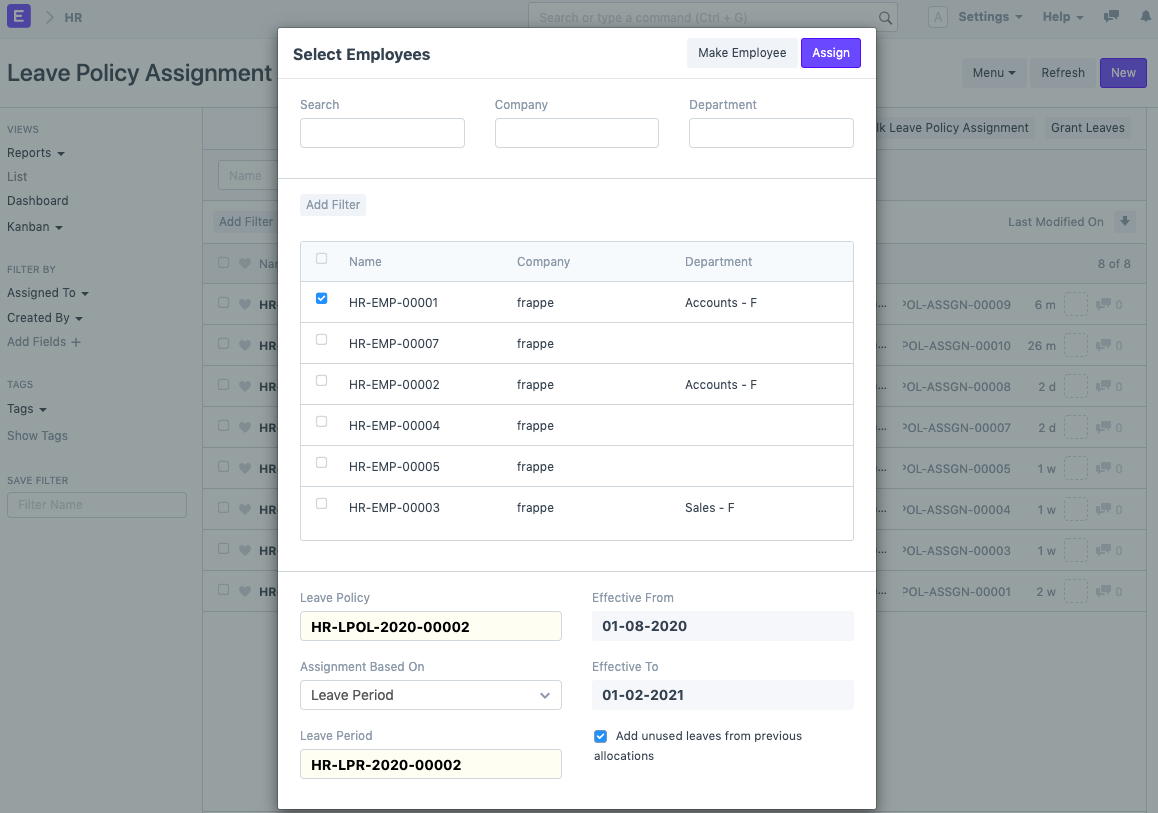
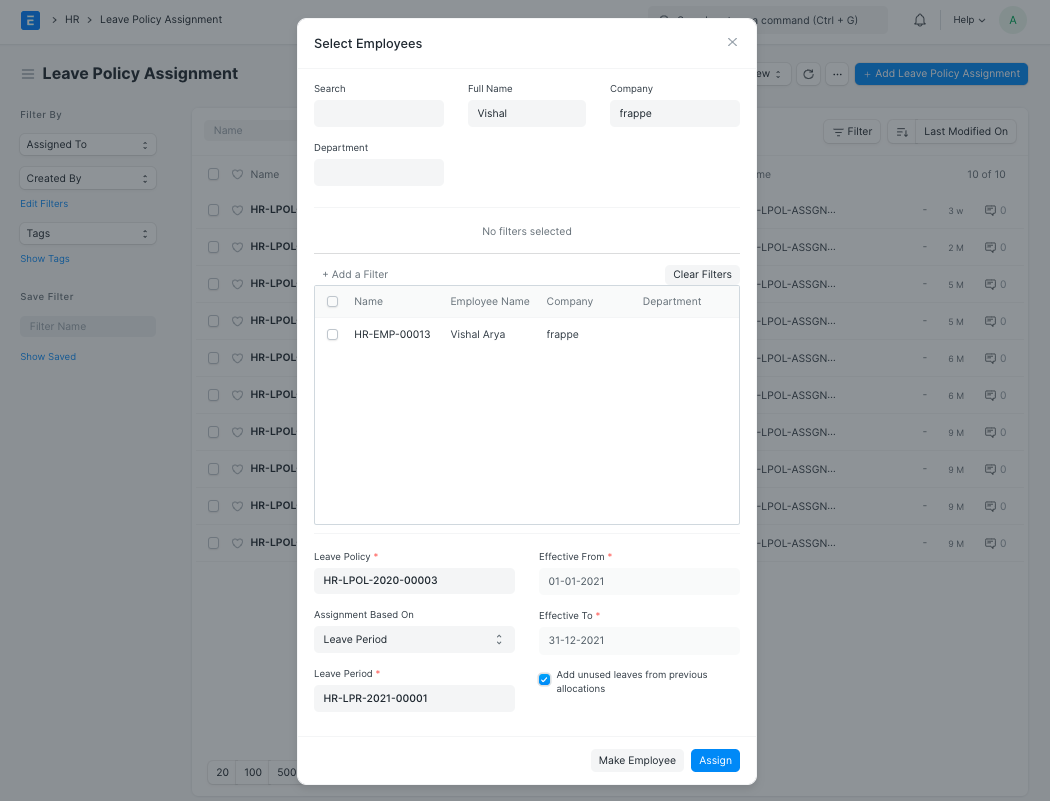
feat: leave policy Doc refactor

diff --git a/erpnext_documentation/www/docs/v12/user/manual/en/human-resources/leave-policy-assignment.md b/erpnext_documentation/www/docs/v12/user/manual/en/human-resources/leave-policy-assignment.md
@@ -1,8 +1,9 @@
+<!-- add-breadcrumbs -->
 # Leave Policy Assignment
 
 > Introduced in Version 13
 
-Leave Policy Assignment in ERPNext is used to assign leaves to employees based on created policies. To access Leave policy assignment, go to:
+Leave Policy Assignment in ERPNext is used to assign leaves to employees based on created policies. To access the Leave policy assignment, go to:
 
 > Home > Human Resources > Leaves > Leave Policy Assignment
 
@@ -24,50 +25,23 @@ Before creating a Leave Policy Assignment, it is advisable to create the followi
 1. Save and Submit.
 
 <img class="screenshot" alt="Leave Policy Assignment"
-	src="{{docs_base_url}}/v12/assets/img/human-resources/leave-policy-assignment.png">
+    src="{{docs_base_url}}/assets/img/human-resources/leave-policy-assignment.png">
 
-## 3. Granting Leaves
-
-Once the information is saved, the Leave Policy Assignment will also be used as a tool to help you grant leaves to employees. The **Grant Leave** button will appear at the right top corner.
-
-
-<img class="screenshot" alt="Grant Leaves"
-	src="{{docs_base_url}}/v12/assets/img/human-resources/leave-policy-assignment-grant-leave.png">
-
-On clicking the "Grant Leave" button, Leave Allocation will be automatically created based on the [Leave Policy](/docs/user/manual/en/human-resources/leave-policy) as shown below.
+On submit, Leave Allocation will be automatically created based on the [Leave Policy](/docs/user/manual/en/human-resources/leave-policy) as shown below.
 
 <img class="screenshot" alt="Leave Allocations"
-	src="{{docs_base_url}}/v12/assets/img/human-resources/granted-leaves.png">
-
->**Note:** The Grant Leave button will appear only if there are no leaves granted or there is no allocation against a current Leave Policy Assignment.
-
-## 4. Automatically Allocate Leaves Based On Leave Policy
-
-To enable automatic allocation of leaves based on the Leave Policy Assignment, enable [Automatic Allocate Leaves Based On Leave Policy ](/docs/user/manual/en/human-resources/hr-settings#37-automatic-allocate-leaves-based-on-leave-policy) checkbox in HR Settings. The scheduler then runs a background job and checks the Effective From date in the Leave Policy Assignment to create leave allocations automatically.
-
->**Note:** Leaves will be automatically granted only if, there are no leaves granted against that Leave Policy Assignment till Effective From date.
+    src="{{docs_base_url}}/assets/img/human-resources/granted-leaves.png">
 
 ## 5. Features
 ### 5.1 Bulk Leave Policy Assignment
 
 ERPNext also allows creating multiple Leave Policy Assignment for multiple employees.
 
-1. Go to Leave Policy Assignment list, click on Bulk Leave Policy Assignment.
+1. Go to the Leave Policy Assignment list, click on Bulk Leave Policy Assignment.
 1. Dialog Will appear, Select Employee. You can filter Employee based on Company and Department or You can also use standard filters by clicking Add Filters.
 1. Select Leave Policy and Effective From and Effective To dates.
 1. Click on Assign.
 
-<img class="screenshot" alt="Bulk Leave Policy Assignment" src="{{docs_base_url}}/v12/assets/img/human-resources/bulk-leave-policy-assignment.png">
-	src="{{docs_base_url}}/v12/assets/img/human-resources/bulk-leave-policy-assignment.png">
+<img class="screenshot" alt="Bulk Leave Policy Assignment" src="{{docs_base_url}}/assets/img/human-resources/bulk-leave-policy-assignment.png">
 
-### 5.2 Granting leaves to multiple employees
-
-Leaves can be granted based on multiple Leave Policy Assignments to multiple employees.
-
-1. Go to Leave Policy Assignment list, click on Grant Leaves.
-1. A dialog will be shown. Select the Leave Policy Assignments. You can filter the assignments based on Company and Employee or you can also use standard filters by clicking on the Add Filters button.
-1. Select the Leave Policy Assignments.
-1. Click on Grant Leaves.
-
-<img class="screenshot" alt="Leave Allocations"
-	src="{{docs_base_url}}/v12/assets/img/human-resources/granting-leave-to-multiple-employee.png">
+When you click on assign, it will automatically create and submit Leave Policy Assignment and also allocate leave based on Leave Policy.
